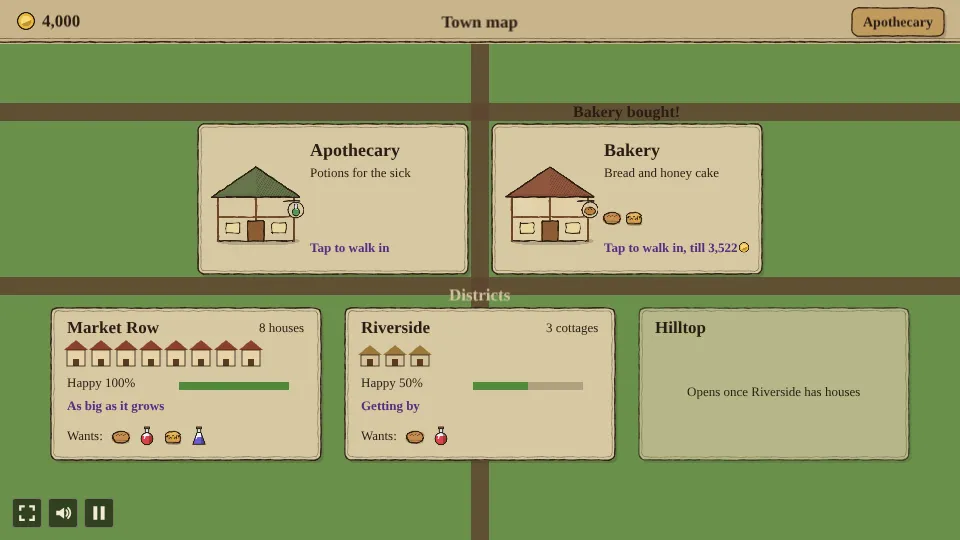
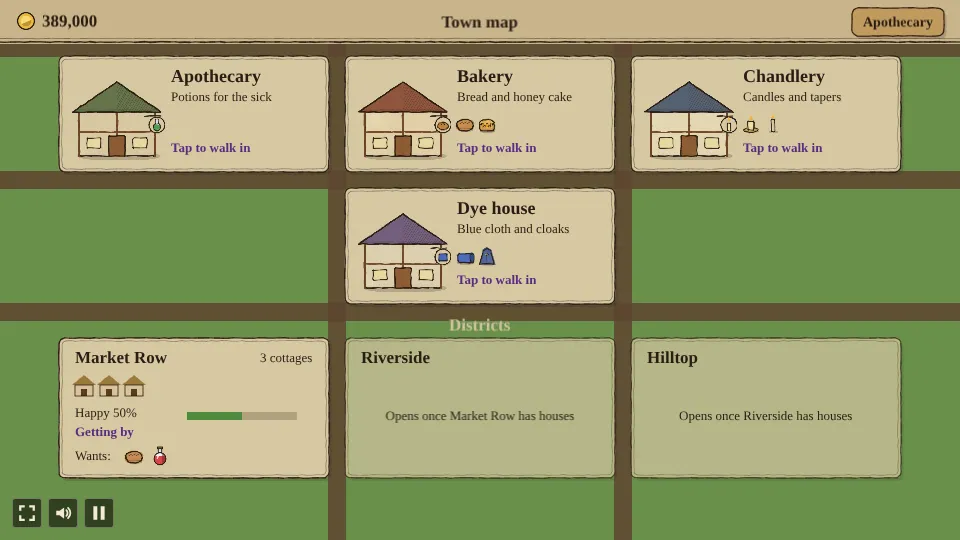
Apothecary: the Dye house, the town's third shop
The Dye house (100,000 coins) weaves flax into linen on its looms and
grinds woad into blue dye, and its dye vat makes blue cloth and cloaks.
Its levels, dyers and pixies cost three times the chandlery's. Manors
in a full district now grow into mansions, which want cloth and cloaks.
With four lots the town map lays them in two rows of shorter cards and
keeps the corner buttons clear.

Requested by Chriszly.

Created with Claude Opus 5.5 (low)

diff --git a/games/apothecary/src/scenes/TownScene.ts b/games/apothecary/src/scenes/TownScene.ts
@@ -24,7 +24,9 @@ import { TOWN_HUD_H, TOWN_TEXT, TOWN_UI_DEPTH, keepSaving, leaveFor, townCard, t
 
 const LOT = { w: 270, h: 150, gap: 24 };
 /** A district's card, and the gap above the row of them for its heading. */
-const DISTRICT = { w: 270, h: 152, above: 34 };
+const DISTRICT = { w: 270, h: 140, above: 34 };
+/** Room kept free along the bottom for the corner buttons (full screen, sound, pause). */
+const CORNER_H = 50;
 const HOME = { w: 18, gap: 7 };
 const COLUMNS = 3;
 const NOTE = { ...TOWN_TEXT, fontSize: '13px', fontStyle: 'normal' };
@@ -34,6 +36,8 @@ type Lot = 'apothecary' | ShopId;
 export class TownScene extends Phaser.Scene {
   private state!: GameState;
   private views: (() => void)[] = [];
+  /** The lot cards' height and the gap between them: shorter once the lots take two rows. */
+  private lot = { h: LOT.h, gap: LOT.gap };
 
   constructor() {
     super('Town');
@@ -47,20 +51,21 @@ export class TownScene extends Phaser.Scene {
     this.add.rectangle(0, 0, width, height, PAPER_NUM).setOrigin(0);
     const lots: Lot[] = ['apothecary', ...SHOP_IDS];
     const rows = Math.ceil(lots.length / COLUMNS);
-    const block = rows * LOT.h + (rows - 1) * LOT.gap + DISTRICT.above + DISTRICT.h;
-    const top = TOWN_HUD_H + (height - TOWN_HUD_H - block) / 2;
+    this.lot = rows > 1 ? { h: 116, gap: 16 } : { h: LOT.h, gap: LOT.gap };
+    const block = rows * this.lot.h + (rows - 1) * this.lot.gap + DISTRICT.above + DISTRICT.h;
+    const top = TOWN_HUD_H + Math.max(8, (height - TOWN_HUD_H - CORNER_H - block) / 2);
     this.drawRoads(width, height, top, rows, Math.min(COLUMNS, lots.length));
     lots.forEach((lot, i) => {
       const row = Math.floor(i / COLUMNS);
       const inRow = Math.min(COLUMNS, lots.length - row * COLUMNS);
       const col = i % COLUMNS;
-      const x = width / 2 + (col - (inRow - 1) / 2) * (LOT.w + LOT.gap);
-      const y = top + row * (LOT.h + LOT.gap) + LOT.h / 2;
+      const x = width / 2 + (col - (inRow - 1) / 2) * (LOT.w + this.lot.gap);
+      const y = top + row * (this.lot.h + this.lot.gap) + this.lot.h / 2;
       this.addLot(lot, x, y);
     });
-    const districtsY = top + rows * LOT.h + (rows - 1) * LOT.gap + DISTRICT.above;
+    const districtsY = top + rows * this.lot.h + (rows - 1) * this.lot.gap + DISTRICT.above;
     this.add.text(width / 2, districtsY - DISTRICT.above / 2 + 4, t('districts'), { ...TOWN_TEXT, color: PAPER }).setOrigin(0.5);
-    DISTRICTS.forEach((_, i) => this.addDistrict(i, width / 2 + (i - (DISTRICTS.length - 1) / 2) * (DISTRICT.w + LOT.gap), districtsY + DISTRICT.h / 2));
+    DISTRICTS.forEach((_, i) => this.addDistrict(i, width / 2 + (i - (DISTRICTS.length - 1) / 2) * (DISTRICT.w + this.lot.gap), districtsY + DISTRICT.h / 2));
     const purse = townTopBar(this, () => this.state, t('townMap'), { label: t('apothecary'), onTap: () => this.enter('apothecary') });
     this.views.push(purse);
     playMusic(SONG, 'calm');
@@ -73,22 +78,24 @@ export class TownScene extends Phaser.Scene {
     const road = Phaser.Display.Color.HexStringToColor(WASH.dirt).color;
     roads.fillStyle(Phaser.Display.Color.HexStringToColor(WASH.grass).color, 0.9).fillRect(0, TOWN_HUD_H, width, height - TOWN_HUD_H);
     roads.fillStyle(road, 0.85);
-    for (let r = 0; r <= rows; r++) roads.fillRect(0, top + r * (LOT.h + LOT.gap) - LOT.gap / 2 - 9, width, 18);
-    for (let c = 0; c < columns - 1; c++) roads.fillRect(width / 2 + (c - (columns - 2) / 2) * (LOT.w + LOT.gap) - 9, TOWN_HUD_H, 18, height - TOWN_HUD_H);
+    for (let r = 0; r <= rows; r++) roads.fillRect(0, top + r * (this.lot.h + this.lot.gap) - this.lot.gap / 2 - 9, width, 18);
+    for (let c = 0; c < columns - 1; c++) roads.fillRect(width / 2 + (c - (columns - 2) / 2) * (LOT.w + this.lot.gap) - 9, TOWN_HUD_H, 18, height - TOWN_HUD_H);
   }
 
   private addLot(lot: Lot, x: number, y: number) {
-    const card = townCard(this, x, y, 'contract', LOT.w, LOT.h).setInteractive({ useHandCursor: true });
+    const card = townCard(this, x, y, 'contract', LOT.w, this.lot.h).setInteractive({ useHandCursor: true });
     fit(this.add.image(x - LOT.w / 2 + 58, y + 4, lotTexture(lot)));
     const left = x - LOT.w / 2 + 112;
     const name = lot === 'apothecary' ? t('apothecary') : t(SHOPS[lot].name);
-    this.add.text(left, y - LOT.h / 2 + 16, name, { ...TOWN_TEXT, fontSize: '18px' });
+    // Two rows of lots make each card shorter, so its lines close up.
+    const compact = this.lot.h < LOT.h;
+    this.add.text(left, y - this.lot.h / 2 + (compact ? 10 : 16), name, { ...TOWN_TEXT, fontSize: '18px' });
     const makes = lot === 'apothecary' ? t('apothecaryMakes') : t(SHOPS[lot].makes);
-    this.add.text(left, y - LOT.h / 2 + 42, makes, { ...NOTE, wordWrap: { width: LOT.w - 124 } });
+    this.add.text(left, y - this.lot.h / 2 + (compact ? 34 : 42), makes, { ...NOTE, wordWrap: { width: LOT.w - 124 } });
     if (lot !== 'apothecary') {
-      (Object.keys(SHOPS[lot].sells) as GoodId[]).forEach((good, i) => fit(this.add.image(left + 8 + i * 22, y + 18, goodTexture(good)), 1.2));
+      (Object.keys(SHOPS[lot].sells) as GoodId[]).forEach((good, i) => fit(this.add.image(left + 8 + i * 22, y + (compact ? 10 : 18), goodTexture(good)), 1.2));
     }
-    const status = coined(this.add.text(left, y + LOT.h / 2 - 34, '', { ...NOTE, fontStyle: 'bold', color: '#5a2c80' }));
+    const status = coined(this.add.text(left, y + this.lot.h / 2 - 32, '', { ...NOTE, fontStyle: 'bold', color: '#5a2c80' }));
     card.on('pointerdown', () => this.tapLot(lot, card));
     this.views.push(() => {
       if (lot === 'apothecary') return status.setText(t('walkIn'));
@@ -109,12 +116,12 @@ export class TownScene extends Phaser.Scene {
     const homes = this.add.graphics();
     const bar = this.add.graphics();
     const happy = this.add.text(left, topY + 68, '', NOTE);
-    const status = this.add.text(left, topY + 90, '', { ...NOTE, fontStyle: 'bold', color: '#5a2c80' });
-    const wants = this.add.text(left, topY + 128, t('districtWants'), NOTE).setOrigin(0, 0.5);
+    const status = this.add.text(left, topY + 86, '', { ...NOTE, fontStyle: 'bold', color: '#5a2c80' });
+    const wants = this.add.text(left, topY + 118, t('districtWants'), NOTE).setOrigin(0, 0.5);
     const icons = new Map<Need, Phaser.GameObjects.Image>();
     for (const need of new Set(HOME_TIERS.flatMap((tier) => tier.needs))) {
       const key = need in GOODS ? goodTexture(need as GoodId) : itemTexture(need as never);
-      icons.set(need, fit(this.add.image(0, topY + 128, key), 1.2).setVisible(false));
+      icons.set(need, fit(this.add.image(0, topY + 118, key), 1.2).setVisible(false));
     }
     const locked = this.add.text(x, y + 8, '', { ...NOTE, align: 'center', wordWrap: { width: DISTRICT.w - 40 } }).setOrigin(0.5);
     let drawn = '';
@@ -140,7 +147,10 @@ export class TownScene extends Phaser.Scene {
         const k = needs.indexOf(need);
         icon.setVisible(k >= 0);
         if (k < 0) return;
-        icon.setX(left + wants.width + 18 + k * 26).setAlpha(d.short.includes(need) ? 0.35 : 1);
+        // The icons close up, and shrink, as a tier asks for more kinds of goods.
+        const step = Math.min(26, (DISTRICT.w - 32 - wants.width - 10) / needs.length);
+        fit(icon, Math.min(1.2, step / 17));
+        icon.setX(left + wants.width + 10 + step / 2 + k * step).setAlpha(d.short.includes(need) ? 0.35 : 1);
       });
     });
   }
@@ -175,7 +185,7 @@ export class TownScene extends Phaser.Scene {
     }
     sfx('upgrade');
     const note = this.add
-      .text(card.x, card.y - LOT.h / 2 - 12, bought[0], { fontFamily: SERIF, fontSize: '16px', fontStyle: 'bold', color: INK })
+      .text(card.x, card.y, bought[0], { fontFamily: SERIF, fontSize: '16px', fontStyle: 'bold', color: INK })
       .setOrigin(0.5)
       .setDepth(TOWN_UI_DEPTH);
     this.tweens.add({ targets: note, y: note.y - 24, alpha: 0, delay: 900, duration: 900, onComplete: () => note.destroy() });

diff --git a/games/apothecary/src/art/town.ts b/games/apothecary/src/art/town.ts
@@ -167,6 +167,82 @@ function drawVat(c: Ctx) {
   both(c, rectPts(20.5, 4, 3, 12, 0.6), '#f0e2a8', { layers: 1 }, { w: 0.5 });
 }
 
+/** Woad: a clump of broad blue-green leaves, crowned with yellow flowers when ripe. 48x44 as shown. */
+function drawWoad(c: Ctx, stage: number) {
+  const height = [8, 20, 30][stage];
+  for (let i = 0; i < 4; i++) {
+    const x = 8 + i * 10.5 + rr(-1, 1);
+    const top = 43 - height + (i % 2) * 3;
+    both(c, [[x, 43], [x - 5, top + height * 0.5], [x, top], [x + 5, top + height * 0.5]], '#5f8a5a', { layers: 2, edge: 0 }, { w: 0.6 });
+    ink(c, [[x, 43], [x, top + 2]], { closed: false, w: 0.4, alpha: 0.6 });
+    if (stage === 2) for (const [dx, dy] of [[-2, -2], [1.5, -3.5], [0, -1]]) both(c, ellPts(x + dx, top + dy, 1.6, 1.4, 8), '#e8cc3a', { layers: 1, edge: 0 }, { w: 0.4 });
+  }
+}
+
+/** A folded length of undyed linen. */
+function drawLinen(c: Ctx) {
+  shadow(c, 8.5, 14, 6.5, 1.4, 0.25);
+  both(c, rectPts(2, 5, 12, 8.5, 1), '#e6dcc0', { layers: 2 }, { w: 0.8 });
+  for (const y of [7.8, 10.6]) ink(c, [[2.5, y], [13.5, y]], { closed: false, w: 0.5, alpha: 0.6 });
+}
+
+/** A pot of deep blue dye. */
+function drawDye(c: Ctx) {
+  shadow(c, 8.5, 14.5, 5.5, 1.4, 0.25);
+  both(c, [[3.5, 6], [12.5, 6], [11.5, 14], [4.5, 14]], '#9a7a5a', { layers: 2 }, { w: 0.8 });
+  both(c, ellPts(8, 6, 4.5, 1.6, 12), '#3a5aa8', { layers: 2, edge: 0 }, { w: 0.6 });
+}
+
+/** A bolt of blue cloth. */
+function drawCloth(c: Ctx) {
+  shadow(c, 8.5, 14, 7, 1.4, 0.25);
+  both(c, rectPts(2, 6, 12, 7.5, 2), '#4a6ab8', { layers: 2, bloom: 1, cx: 6, cy: 8 }, { w: 0.8 });
+  both(c, ellPts(14, 9.8, 1.8, 3.8, 10), '#34508e', { layers: 1 }, { w: 0.6 });
+}
+
+/** A hooded blue cloak. */
+function drawCloak(c: Ctx) {
+  shadow(c, 8.5, 15, 6, 1.2, 0.25);
+  both(c, [[8, 1.5], [11, 3.5], [11.5, 6], [14, 14.5], [2, 14.5], [4.5, 6], [5, 3.5]], '#34508e', { layers: 2, bloom: 1, cx: 7, cy: 8 }, { w: 0.8 });
+  ink(c, [[8, 6.5], [8, 14]], { closed: false, w: 0.5, alpha: 0.6 });
+  both(c, ellPts(8, 6.6, 1, 1, 8), WASH.brass, { layers: 1, edge: 0 }, { w: 0.4 });
+}
+
+/** A loom: a timber frame with the warp strung down it and linen wound on its front beam. 84x64 as shown. */
+function drawLoom(c: Ctx) {
+  shadow(c, 42, 60, 38, 4, 0.18);
+  for (const lx of [8, 72]) both(c, rectPts(lx, 6, 6, 52, 1), WASH.woodDark, { layers: 2 }, { w: 1 });
+  both(c, rectPts(6, 6, 72, 6, 1.5), WASH.wood, { layers: 2 }, { w: 1.1 });
+  for (let x = 17; x < 70; x += 3) ink(c, [[x, 12], [x, 40]], { closed: false, w: 0.45, col: '#e6dcc0' });
+  both(c, rectPts(14, 22, 58, 4, 1), WASH.woodDeep, { layers: 1 }, { w: 0.8 });
+  both(c, rectPts(14, 30, 58, 10, 1), '#e6dcc0', { layers: 2 }, { w: 0.8 });
+  both(c, rectPts(10, 40, 66, 6, 2), WASH.wood, { layers: 2 }, { w: 1 });
+  ink(c, [[14, 52], [72, 52]], { closed: false, w: 1.4, col: WASH.woodDeep });
+}
+
+/** A grinding stone for woad leaves: a stone wheel rolling in a round trough, pushed by a beam. 84x60 as shown. */
+function drawGrinder(c: Ctx) {
+  shadow(c, 42, 55, 38, 5, 0.18);
+  both(c, ellPts(42, 44, 34, 10, 30), WASH.stoneDark, { layers: 3 }, { w: 1.2 });
+  both(c, ellPts(42, 42, 26, 7, 30), '#4f6a4a', { layers: 2, edge: 0 }, { w: 0.6 });
+  both(c, ellPts(30, 30, 9, 14, 24), WASH.stone, { layers: 3, bloom: 1, cx: 28, cy: 26 }, { w: 1.2 });
+  both(c, ellPts(30, 30, 3, 5, 12), '#5a6066', { layers: 1, edge: 0 }, { w: 0.6 });
+  ink(c, [[30, 30], [80, 18]], { closed: false, w: 3, col: WASH.woodDark });
+  ink(c, [[42, 44], [42, 20]], { closed: false, w: 2.4, col: WASH.woodDeep });
+}
+
+/** A dye vat: a wide wooden tub of blue dye, steaming, with cloth hung over a pole beside it. 84x60 as shown. */
+function drawDyeVat(c: Ctx) {
+  shadow(c, 42, 56, 38, 5, 0.18);
+  both(c, rectPts(58, 6, 4, 48, 1), WASH.woodDark, { layers: 1 }, { w: 0.8 });
+  ink(c, [[56, 8], [82, 8]], { closed: false, w: 2, col: WASH.woodDeep });
+  both(c, [[64, 8], [80, 8], [79, 34], [65, 30]], '#4a6ab8', { layers: 2 }, { w: 0.8 });
+  both(c, [[4, 22], [52, 22], [48, 52], [8, 52]], '#a0703e', { layers: 3, bloom: 1, cx: 16, cy: 30 }, { w: 1.2 });
+  for (const y of [30, 44]) ink(c, [[5, y], [51, y]], { closed: false, w: 1.2, col: WASH.iron });
+  both(c, ellPts(28, 22, 24, 5, 22), '#3a5aa8', { layers: 2 }, { w: 1 });
+  ink(c, [[24, 22], [36, 2]], { closed: false, w: 1.6, col: WASH.woodDark });
+}
+
 /** A millstone on a timber frame, a hopper of grain above it and a sack catching the flour. 88x60 as shown. */
 function drawMill(c: Ctx) {
   shadow(c, 46, 55, 40, 5, 0.18);
@@ -296,6 +372,15 @@ export function bakeTown(scene: Phaser.Scene) {
   paint(scene, 'press', 88, 60, drawPress, 3);
   paint(scene, 'wheel', 80, 64, drawWheel, 3);
   paint(scene, 'vat', 84, 60, drawVat, 3);
+  for (const stage of [0, 1, 2]) paint(scene, bedTexture('woad', stage), 48, 44, (c) => drawWoad(c, stage), 3, 101 + stage);
+  paint(scene, 'good-woad', 16, 16, (c) => drawWoad(c, 2), 4);
+  paint(scene, 'good-linen', 16, 16, drawLinen, 4);
+  paint(scene, 'good-dye', 16, 16, drawDye, 4);
+  paint(scene, 'good-cloth', 16, 16, drawCloth, 4);
+  paint(scene, 'good-cloak', 16, 16, drawCloak, 4);
+  paint(scene, 'loom', 84, 64, drawLoom, 3);
+  paint(scene, 'grinder', 84, 60, drawGrinder, 3);
+  paint(scene, 'dyeVat', 84, 60, drawDyeVat, 3);
   paint(scene, lotTexture('apothecary'), 96, 84, (c) =>
     drawLot(c, '#5e6e46', '#d8c8a2', (s) => {
       // A green bottle on the sign.
@@ -311,6 +396,10 @@ export function bakeTown(scene: Phaser.Scene) {
     drawLot(c, '#4e5a6e', '#e4d8b4', (s) => {
       both(s, rectPts(86.4, 47, 3.2, 8, 0.6), '#f0e2a8', { layers: 1 }, { w: 0.6 });
       wash(s, [[88, 41.5], [89.4, 44.5], [88, 46], [86.6, 44.5]], WASH.flameLight, { layers: 1, edge: 0 });
+    }), 3);
+  paint(scene, lotTexture('dyeHouse'), 96, 84, (c) =>
+    drawLot(c, '#6e5a7a', '#dccfae', (s) => {
+      both(s, rectPts(84, 46, 8, 7, 1), '#4a6ab8', { layers: 1 }, { w: 0.6 });
     }), 3);
 }
 

diff --git a/games/apothecary/src/game/town.ts b/games/apothecary/src/game/town.ts
@@ -9,7 +9,7 @@ import type { Upgrade } from './state';
 // as the shop before's, while its goods sell for about as much more. Phaser-free, like `state.ts`.
 
 /** What a town shop grows, makes and sells. The apothecary's wheat and flour are painted the same. */
-export type GoodId = 'wheat' | 'honeycomb' | 'flour' | 'bread' | 'honeyCake' | 'flax' | 'wax' | 'wick' | 'candle' | 'taper';
+export type GoodId = 'wheat' | 'honeycomb' | 'flour' | 'bread' | 'honeyCake' | 'flax' | 'wax' | 'wick' | 'candle' | 'taper' | 'woad' | 'linen' | 'dye' | 'cloth' | 'cloak';
 
 export const GOODS: Record<GoodId, { color: number }> = {
   wheat: { color: 0xd9b24a },
@@ -22,10 +22,15 @@ export const GOODS: Record<GoodId, { color: number }> = {
   wick: { color: 0xe8e0c8 },
   candle: { color: 0xf0e2a8 },
   taper: { color: 0xf4e8c0 },
+  woad: { color: 0x6a9a4a },
+  linen: { color: 0xe6dcc0 },
+  dye: { color: 0x3a5aa8 },
+  cloth: { color: 0x4a6ab8 },
+  cloak: { color: 0x34508e },
 };
 
 /** The shops on the town map besides the apothecary, in the order they are bought. */
-export type ShopId = 'bakery' | 'chandlery';
+export type ShopId = 'bakery' | 'chandlery' | 'dyeHouse';
 
 export interface Recipe {
   inputs: GoodId[];
@@ -138,6 +143,38 @@ export const SHOPS: Record<ShopId, ShopDef> = {
     ],
     sells: { candle: 72, taper: 117 },
     worker: 'chandler',
+  },
+  dyeHouse: {
+    id: 'dyeHouse',
+    name: 'dyeHouse',
+    makes: 'dyeHouseMakes',
+    tier: 3,
+    gardens: [
+      { good: 'flax', grow: 26_000, name: 'flaxField' },
+      { good: 'woad', grow: 32_000, name: 'woadField' },
+    ],
+    stations: [
+      { id: 'loom', name: 'loom', texture: 'loom', recipes: [{ inputs: ['flax', 'flax'], out: 'linen', ms: 4_000 }] },
+      { id: 'grinder', name: 'grinder', texture: 'grinder', recipes: [{ inputs: ['woad'], out: 'dye', ms: 3_000 }] },
+      {
+        id: 'dyeVat',
+        name: 'dyeVat',
+        texture: 'dyeVat',
+        recipes: [
+          { inputs: ['linen', 'dye'], out: 'cloth', ms: 6_000 },
+          { inputs: ['linen', 'linen', 'dye'], out: 'cloak', ms: 8_000 },
+        ],
+      },
+    ],
+    routes: [
+      { id: 'flax', from: { garden: 0 }, to: { station: 'loom' }, cost: 60 },
+      { id: 'woad', from: { garden: 1 }, to: { station: 'grinder' }, cost: 60 },
+      { id: 'loom', from: { station: 'loom' }, to: { station: 'dyeVat' }, cost: 100 },
+      { id: 'grinder', from: { station: 'grinder' }, to: { station: 'dyeVat' }, cost: 100 },
+      { id: 'dyeVat', from: { station: 'dyeVat' }, to: 'shelf', cost: 150 },
+    ],
+    sells: { cloth: 216, cloak: 351 },
+    worker: 'dyer',
   },
 };
 export const SHOP_IDS = Object.keys(SHOPS) as ShopId[];

diff --git a/games/apothecary/src/i18n/de.ts b/games/apothecary/src/i18n/de.ts
@@ -263,6 +263,19 @@ const de: Translation<typeof en> = {
   taper: 'Stabkerze',
   chandler: 'Kerzenzieher',
   manorCount: { one: '{n} Gutshaus', other: '{n} Gutshäuser' },
+  dyeHouse: 'Färberei',
+  dyeHouseMakes: 'Blaues Tuch und Umhänge',
+  woadField: 'Waidfeld',
+  loom: 'Webstuhl',
+  grinder: 'Waidmühle',
+  dyeVat: 'Färbebottich',
+  woad: 'Waid',
+  linen: 'Leinen',
+  dye: 'Blaue Farbe',
+  cloth: 'Blaues Tuch',
+  cloak: 'Umhang',
+  dyer: 'Färber',
+  mansionCount: { one: '{n} Herrenhaus', other: '{n} Herrenhäuser' },
 };
 
 /** Texts that read the same in German. */

diff --git a/games/apothecary/src/game/districts.ts b/games/apothecary/src/game/districts.ts
@@ -25,6 +25,7 @@ export const HOME_TIERS: { name: TextKey; needs: Need[] }[] = [
   { name: 'cottageCount', needs: ['bread', 'healingDraught'] },
   { name: 'houseCount', needs: ['bread', 'healingDraught', 'honeyCake', 'sleepingTonic'] },
   { name: 'manorCount', needs: ['bread', 'healingDraught', 'honeyCake', 'sleepingTonic', 'candle', 'taper'] },
+  { name: 'mansionCount', needs: ['bread', 'healingDraught', 'honeyCake', 'sleepingTonic', 'candle', 'taper', 'cloth', 'cloak'] },
 ];
 
 /** Homes a district starts with when it opens, and the most it holds. */

diff --git a/games/apothecary/src/i18n/en.ts b/games/apothecary/src/i18n/en.ts
@@ -260,6 +260,19 @@ const en = {
   taper: 'Taper',
   chandler: 'Chandler',
   manorCount: { one: '{n} manor', other: '{n} manors' },
+  dyeHouse: 'Dye house',
+  dyeHouseMakes: 'Blue cloth and cloaks',
+  woadField: 'Woad field',
+  loom: 'Loom',
+  grinder: 'Woad mill',
+  dyeVat: 'Dye vat',
+  woad: 'Woad',
+  linen: 'Linen',
+  dye: 'Blue dye',
+  cloth: 'Blue cloth',
+  cloak: 'Cloak',
+  dyer: 'Dyer',
+  mansionCount: { one: '{n} mansion', other: '{n} mansions' },
 };
 
 export default en;

diff --git a/games/apothecary/AGENTS.md b/games/apothecary/AGENTS.md
@@ -43,12 +43,14 @@ study, shade gardens and a mirrored second production line.
   stations with drop, work and pick-up markers, and a counter whose shelves customers buy from.
   Stations, the counter and pixie routes have purple markers; their costs grow by `TIER_STEP` (3)
   a tier. The shops so far are the Bakery (wheat and honeycomb, mill and oven, bread and honey
-  cake) and the Chandlery (honeycomb and flax, wax press, spinning wheel and dipping vat, candles
-  and tapers). Below the lots, a card per district (`DISTRICTS`: Market Row, Riverside, Hilltop) shows its
+  cake) the Chandlery (honeycomb and flax, wax press, spinning wheel and dipping vat, candles
+  and tapers) and the Dye house (flax and woad, loom, woad mill and dye vat, blue cloth and
+  cloaks). With more than three lots the map lays them in two rows of shorter cards (`lot`), and
+  keeps `CORNER_H` free at the bottom for the corner buttons. Below the lots, a card per district (`DISTRICTS`: Market Row, Riverside, Hilltop) shows its
   households: every `SUPPLY_MS` each home asks for one need of its tier (`HOME_TIERS`: cottages,
-  then houses, then manors, which want candles and tapers) and buys it off a shop's shelf (potions
+  then houses, manors, which want candles and tapers, and mansions, which want blue cloth and cloaks) and buys it off a shop's shelf (potions
   off the apothecary's), and happy districts grow homes and then tiers (see `runDistrict`). Planned
-  next: the Dye house, Smithy and Tavern, each adding goods that a tier asks for.
+  next: the Smithy and Tavern, each adding goods that a tier asks for.
 - Gardens have nine beds each, three by three edge to edge (`PLOTS_PER_GARDEN`, `plotPosition`).
   Two shade gardens grow nightshade for the Shadow Elixir, Moonlight Salve and Witch's Brew. A brew's last quarter
   is its fine window: picked up then by hand, it becomes a Fine potion (its own item kind) worth
@@ -167,8 +169,8 @@ study, shade gardens and a mirrored second production line.
 - `src/scenes/TownScene.ts` (`Town`) and `src/scenes/ShopScene.ts` (`Shop`, started with
   `{ shop }`): both call `loadState` and `catchUp` on create, and run the apothecary with
   `tick(state, dt, null)` (as while away) next to `tickTown`; `GameScene` runs `tickTown(state, dt,
-  null)` after its own `tick`. `src/art/town.ts` paints the goods, the beds (`bedTexture`: hives, flax), each
-  shop's stations (mill, oven, wax press, spinning wheel, dipping vat), a shop's yard (`bakeYard`)
+  null)` after its own `tick`. `src/art/town.ts` paints the goods, the beds (`bedTexture`: hives, flax, woad), each
+  shop's stations (mill, oven, wax press, spinning wheel, dipping vat, loom, woad mill, dye vat), a shop's yard (`bakeYard`)
   and the lot houses (`bakeTown`, called by `BootScene`).
 - `src/scenes/BootScene.ts`: bakes all textures and animations, then starts `Game`.
 - `src/scenes/GameScene.ts`: builds the world, markers and HUD, reads input, walks the doctor

diff --git a/games/apothecary/README.md b/games/apothecary/README.md
@@ -375,7 +375,7 @@ apothecary's shelves), paying the shelf price into that shop's till. Happiness m
 the share it got. Four rounds in a row at 80% or more add a home, up to eight; once full, its
 cottages grow into houses, which want honey cake and Sleeping Tonics as well as bread and Healing
 Draughts. A full district of houses grows into manors, which also want candles and tapers from the
-chandlery. Four rounds in a row at 30% or less lose a home again, down to three. Market Row opens with
+chandlery, and manors grow into mansions (see the dye house). Four rounds in a row at 30% or less lose a home again, down to three. Market Row opens with
 the town; Riverside opens once Market Row has houses, and Hilltop once Riverside has.
 
 The second shop is the **chandlery** (10,000 coins). Its beehives give honeycomb, pressed into
@@ -390,6 +390,19 @@ wick (117). Its prices are three times the bakery's:
 | Pixies: hives to press, flax to wheel, press to vat, wheel to vat, vat to the shelves | 540, 540, 900, 900, 1,350 |
 
 ![The chandlery's dipping vat and shop](docs/screenshots/chandlery.webp)
+
+The third shop is the **dye house** (100,000 coins). Its looms weave two flax into linen, and its
+woad mill grinds woad leaves into blue dye. The dye vat makes blue cloth from a linen and a dye (216
+coins) or a cloak from two linen and a dye (351). A full district of manors grows into mansions,
+which also want blue cloth and cloaks.
+
+| Dye house | Cost |
+| --- | --- |
+| Station or counter level | 540, 1,080, 2,160, 4,320 |
+| Dyer (2 per station) or shopkeeper (1) | 810, then 1,620 |
+| Pixies: flax to loom, woad to mill, loom to vat, mill to vat, vat to the shelves | 1,620, 1,620, 2,700, 2,700, 4,050 |
+
+![The dye house's vat and shop](docs/screenshots/dye-house.webp)
 
 ![The town map with the apothecary and the bakery](docs/screenshots/town-map.webp)
 
